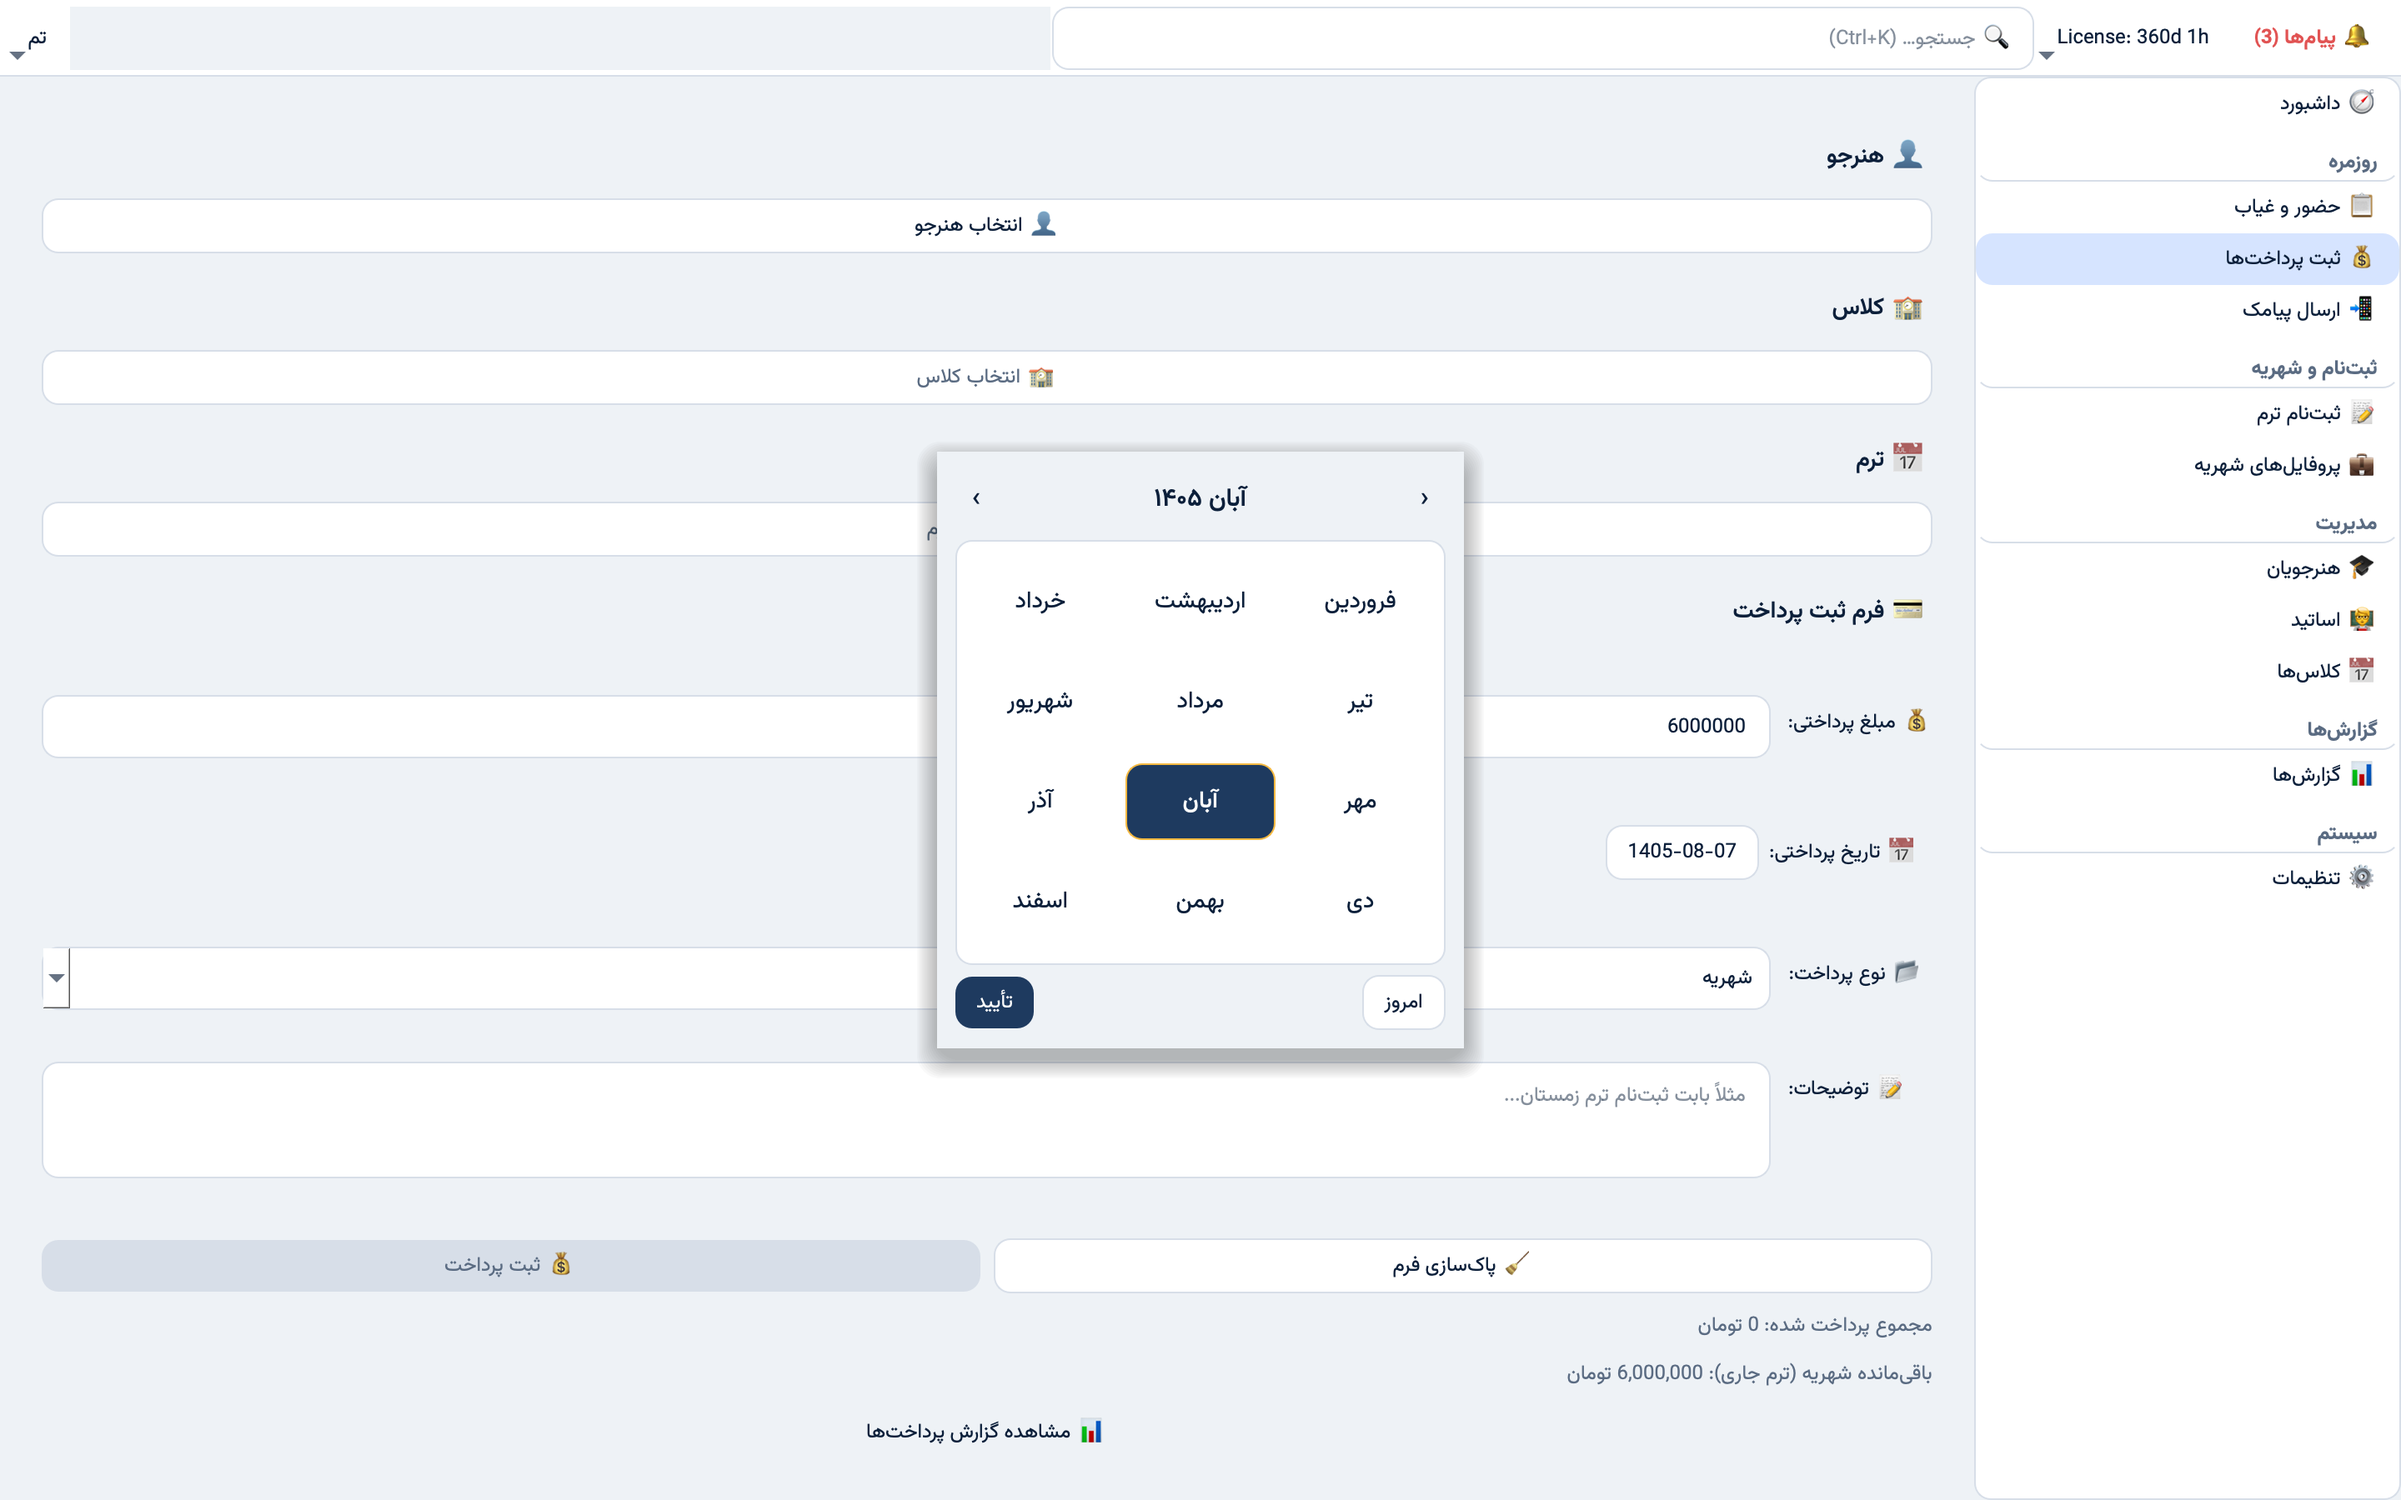
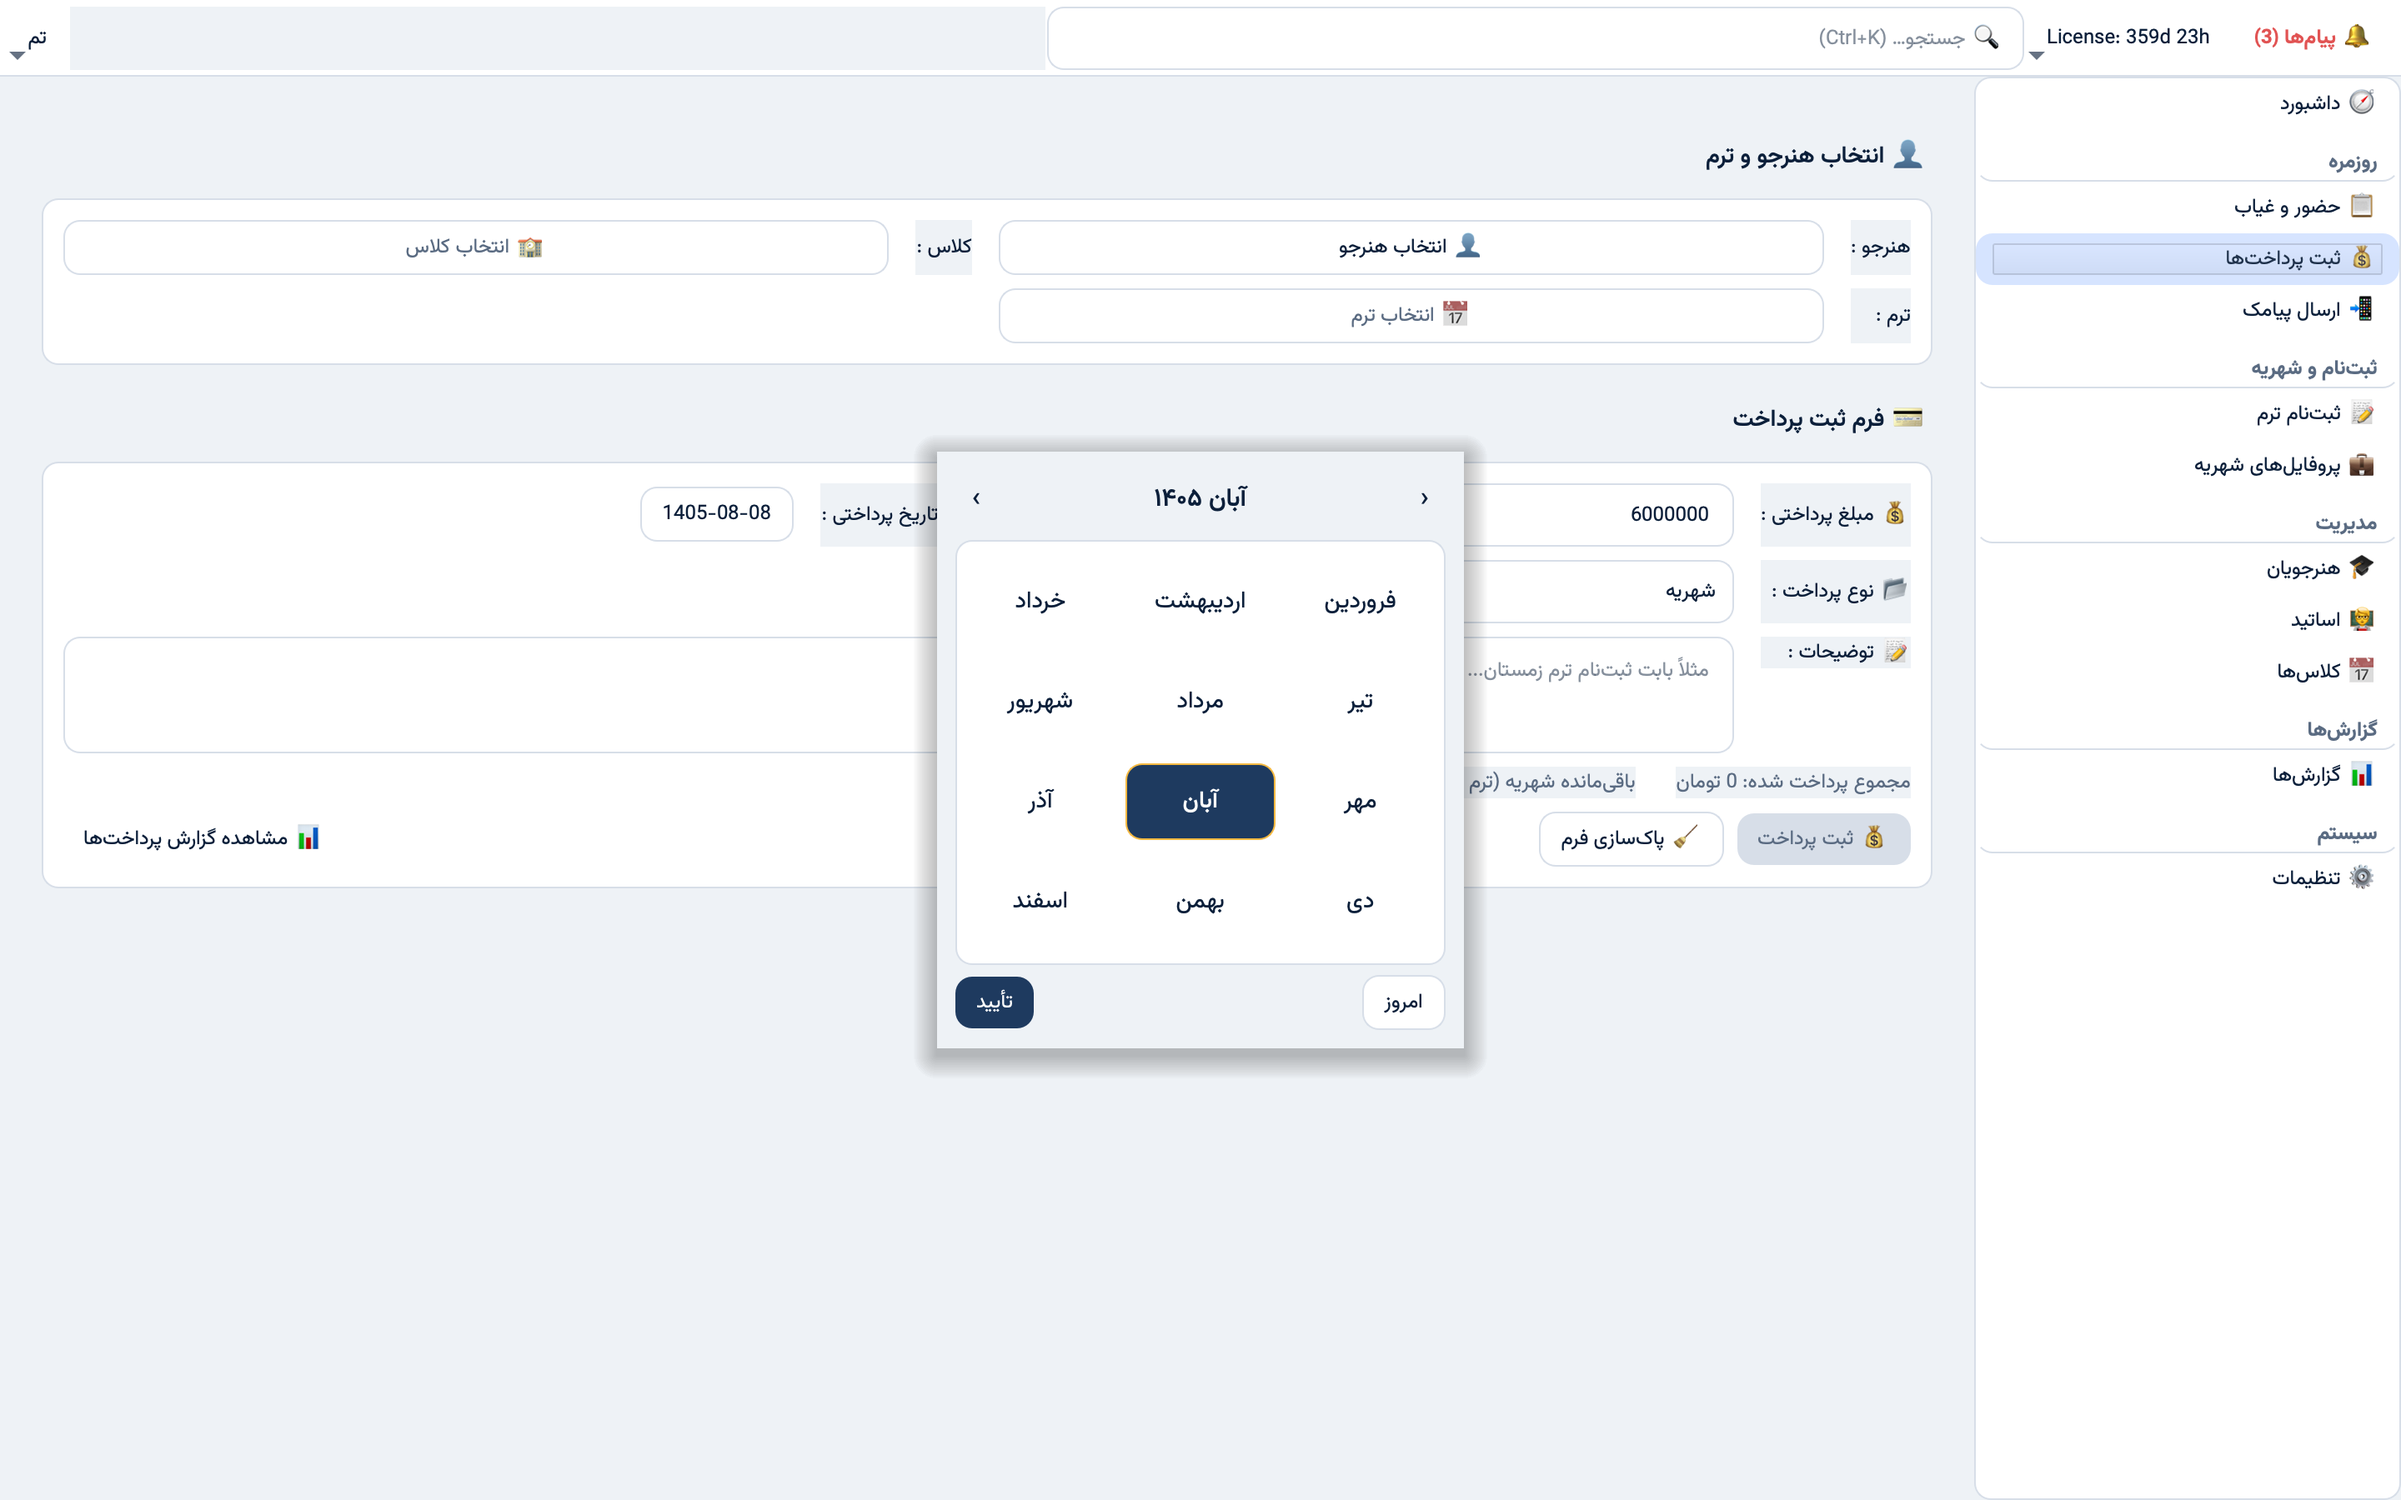
docs: bump version to v1.5.0 and refresh screenshots

diff --git a/VIDEO_DEMO.md b/VIDEO_DEMO.md
@@ -80,7 +80,7 @@
 
 ## Screenshots
 
-All in [SCREENSHOTS/](SCREENSHOTS/), captured from **v1.3.21** on macOS (Retina, 2880×1800) over a seeded demo database — every name, phone number and national code is fictional.
+All in [SCREENSHOTS/](SCREENSHOTS/), captured from **v1.3.21** on macOS (Retina, 2880×1800) over a seeded demo database (the payments, term-enrollment and date-picker shots from **v1.5.0**) — every name, phone number and national code is fictional.
 
 | File | Shows |
 |------|-------|
@@ -88,8 +88,8 @@ All in [SCREENSHOTS/](SCREENSHOTS/), captured from **v1.3.21** on macOS (Retina,
 | `dashboard_dark.png` | Same dashboard in the dark theme |
 | `attendance.png` | Attendance for one class/date: computed roster, present/absent, cancel, delete, resend reminder |
 | `attendance_dark.png` | Attendance in the dark theme |
-| `term_enrollment.png` | Term enrollment: student, class, start date snapped to weekday, active enrollments of the class |
-| `payments.png` | Payment form for a term with live debt / consumption status |
+| `term_enrollment.png` | Term enrollment: compact two-column card — student, class, start date snapped to weekday, session time — and the active enrollments of the class |
+| `payments.png` | Payment form for a term in compact two-column cards, with live debt / consumption status |
 | `manual_sms.png` | Manual SMS: recipient list with preselection, message preview, retry for failed sends |
 | `students.png` | Student form (checksum-validated national code, normalized phone) |
 | `teachers.png` | Teacher form with taught instruments |
@@ -104,8 +104,8 @@ All in [SCREENSHOTS/](SCREENSHOTS/), captured from **v1.3.21** on macOS (Retina,
 | `settings.png` | Academy settings, verified backup/restore, password and license details |
 | `command_palette.png` | Ctrl+K command palette over the dashboard |
 | `notification_center.png` | Notification Center: failed and due renewal reminders |
-| `date_picker.png` | Jalali date picker over the payments page: click the title for a 12-year page and a month page, Persian digits, Friday and today marked, امروز button *(captured from v1.4.0)* |
-| `date_picker_dark.png` | The date picker in the dark theme *(captured from v1.4.0)* |
+| `date_picker.png` | Jalali date picker over the payments page: click the title for a 12-year page and a month page, Persian digits, Friday and today marked, امروز button |
+| `date_picker_dark.png` | The date picker in the dark theme |
 | `date_picker_years.png` | Date picker year page: 12 years (4 × 3), selected and current year marked, arrows turn 12 years |
 | `date_picker_months.png` | Date picker month page: the 12 months (4 × 3) after picking a year |
 | `login.png` | Login window |

diff --git a/README.md b/README.md
@@ -17,7 +17,7 @@
 | Aspect | Detail |
 |--------|--------|
 | **Role** | Sole developer — requirements → domain modeling → architecture → implementation → tests → packaging → releases |
-| **Scale** | Production desktop app, used daily by the admin of a music academy; 12+ tagged releases (current: `v1.4.1`) |
+| **Scale** | Production desktop app, used daily by the admin of a music academy; 12+ tagged releases (current: `v1.5.0`) |
 | **Hardest problems solved** | Schedule-as-truth domain model (no `sessions` table), derived & reversible term completion, three-state attendance with reschedule-as-cancellation, SMS sends moved off the UI thread with an exact-outcome ledger, Ed25519 offline license system with device binding & trial |
 | **Tech depth** | SQLite migrations v2–v8 (WAL, online-backup before every migration), Shamsi/Jalali calendar throughout, single-window sidebar shell with Ctrl+K command palette, token-based light/dark theming, cross-platform PyInstaller builds from CI |
 | **Testing** | **653 pytest tests** — domain/repo tests over real SQLite **plus ~540 headless pytest-qt GUI tests** that drive real pages (save attendance, send SMS through a fake transport, navigate the shell); CI on Windows (Py 3.8 & 3.11), macOS and Linux |
@@ -117,7 +117,7 @@ More in [SCREENSHOTS/](SCREENSHOTS/) and the index in [VIDEO_DEMO.md](VIDEO_DEMO
 
 ## 📦 Releases & Distribution
 
-- **12+ tagged releases** (current: `v1.4.1`)
+- **12+ tagged releases** (current: `v1.5.0`)
 - Built by CI on every `v*` tag and attached to the GitHub Release:
 
 | Asset | Platform |

diff --git a/DEPLOYMENT.md b/DEPLOYMENT.md
@@ -47,7 +47,7 @@ pyinstaller --noconfirm --clean packaging/linux.spec   # Linux   → dist/AcaSma
 
 ### Versioning
 - **Scheme:** `v<major>.<minor>.<patch>` (e.g., `v1.3.21`)
-- **Current:** `v1.4.0`; 12+ releases
+- **Current:** `v1.5.0`; 12+ releases
 
 ### Release Checklist
 
